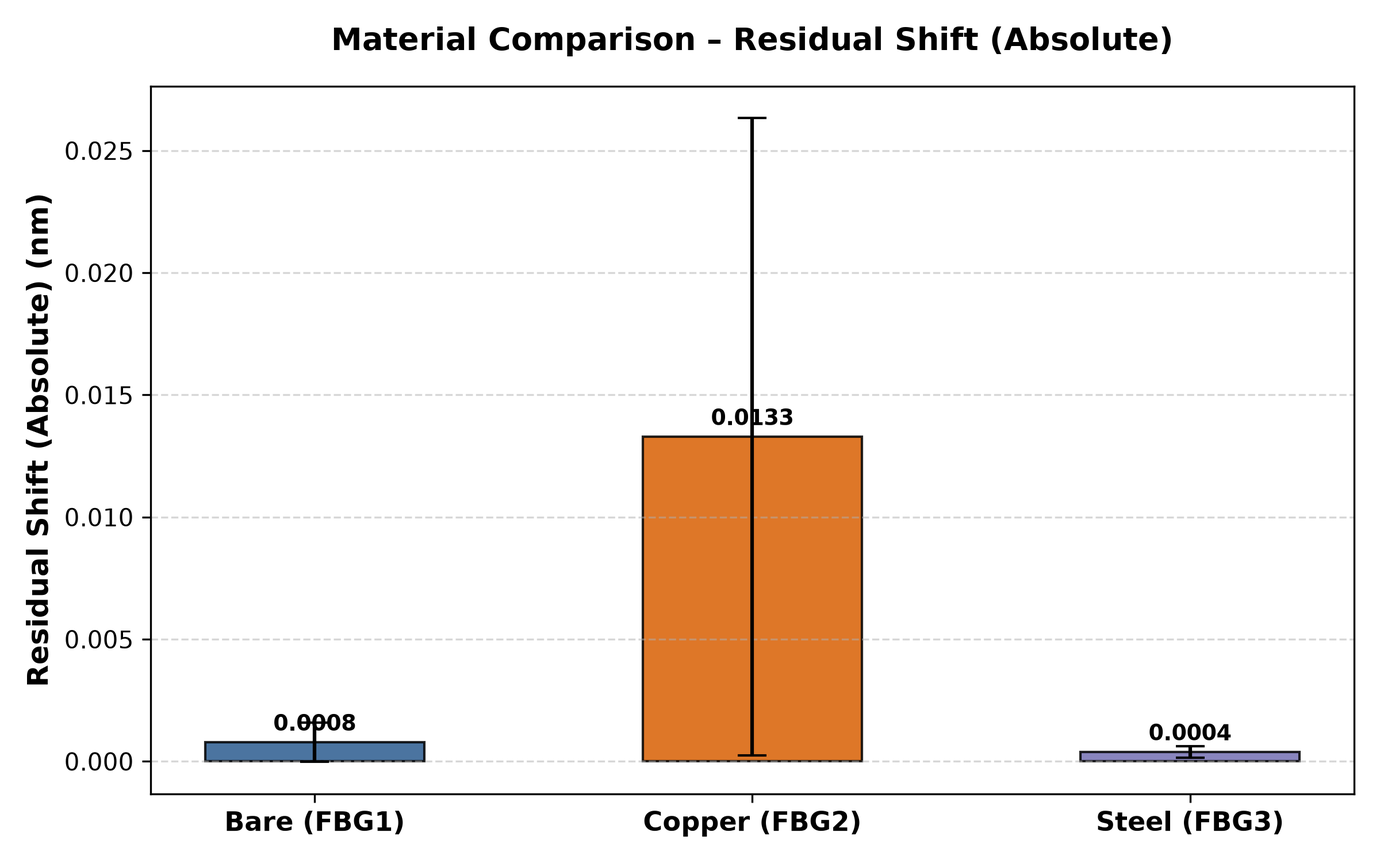
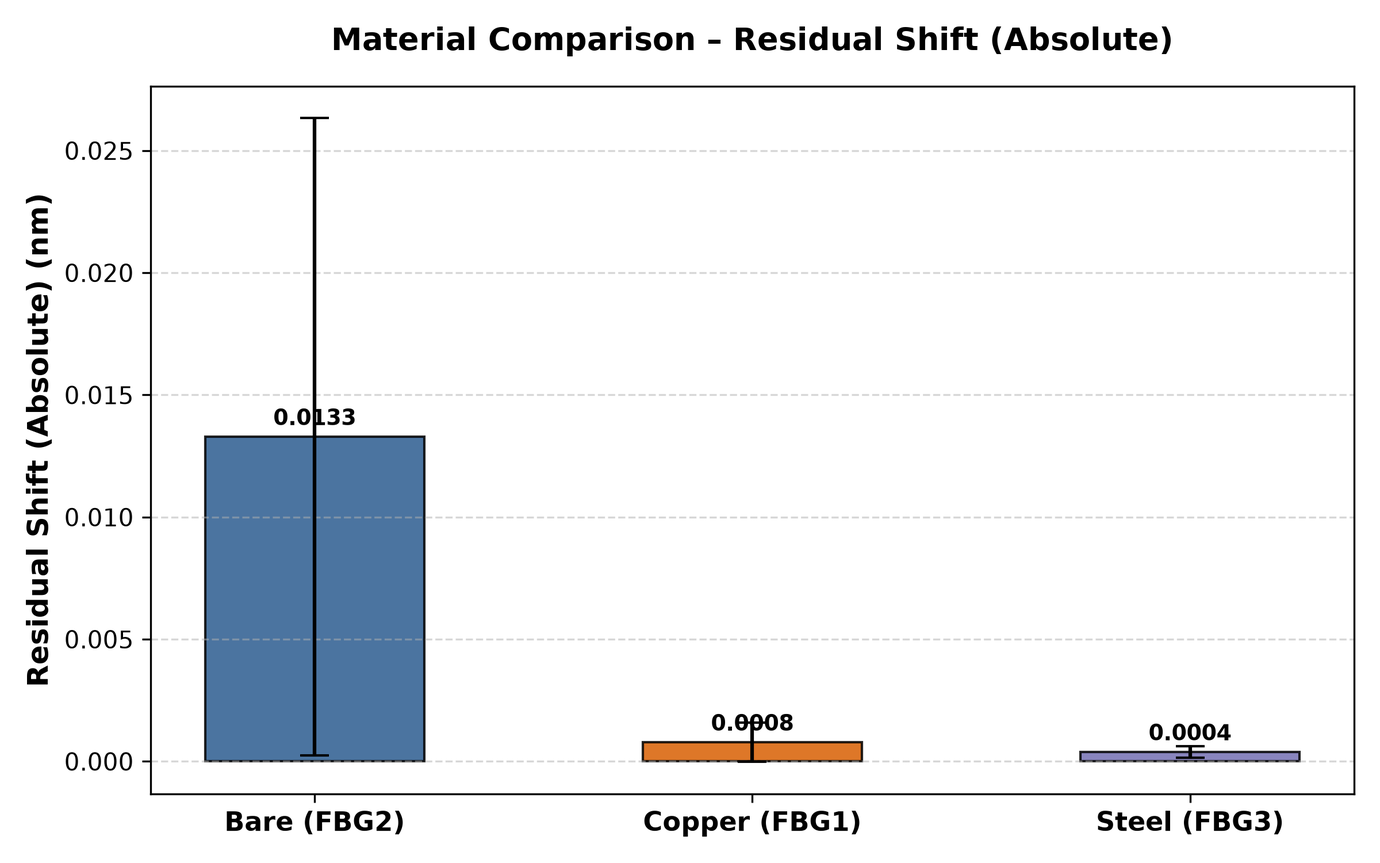
Update material mapping: FBG2 = Bare, FBG1 = Copper, FBG3 = Steel and update Phase 5 results

Changed region(s): [[0.4375, 0.1227, 0.625, 0.8893], [0.125, 0.1227, 0.3125, 0.8893]]

diff --git a/src/comparison_analysis.py b/src/comparison_analysis.py
@@ -24,16 +24,9 @@ FEATURE_DISPLAY_NAMES = {
 def generate_material_summary_table(all_features_df):
     """
     Generate wide-format material comparison summary table with mean, std, min, max per feature.
-    
-    Parameters:
-        all_features_df (pd.DataFrame): Dataframe containing all feature records.
-        
-    Returns:
-        pd.DataFrame: Summary table grouped by Material & Sensor.
     """
     numeric_cols = list(FEATURE_DISPLAY_NAMES.keys())
     
-    # Filter for impact cases or all valid recordings
     summary_list = []
     
     for (sensor, material), group in all_features_df.groupby(["Sensor", "Material"]):
@@ -67,15 +60,8 @@ def generate_material_summary_table(all_features_df):
 
 def generate_engineering_comparison_table(all_features_df):
     """
-    Generate the main 13-feature material comparison table: Bare vs Copper vs Steel.
-    
-    Parameters:
-        all_features_df (pd.DataFrame): Dataframe containing all feature records.
-        
-    Returns:
-        pd.DataFrame: Direct comparison table with engineering explanations.
+    Generate the main 13-feature material comparison table: Bare (FBG2) vs Copper (FBG1) vs Steel (FBG3).
     """
-    # Compute mean for each material
     mat_means = {}
     for mat in ["Bare", "Copper", "Steel"]:
         group = all_features_df[all_features_df["Material"] == mat]
@@ -86,66 +72,60 @@ def generate_engineering_comparison_table(all_features_df):
 
     explanations = {
         "peak_shift_abs": (
-            "Bare FBG lacks protective coating, yielding direct strain transfer and higher effective localized strain response. "
-            "Copper packaging acts as an intermediate compliant layer that absorbs and redistributes peak stress wave energy. "
-            "Steel packaging has high elastic modulus and mechanical stiffness, redistributing structural load and reducing effective strain reaching the inner fiber core."
+            "Bare FBG (FBG2) lacks protective metallic coating, yielding direct strain transfer and the highest peak shift (0.0298 nm). "
+            "Copper packaging (FBG1) acts as a compliant layer that redistributes part of the applied strain (0.0078 nm). "
+            "Steel packaging (FBG3) has high stiffness and elastic modulus, sharing structural load and producing the smallest peak shift (0.0028 nm)."
         ),
         "residual_shift_abs": (
-            "Bare silica fiber exhibits minimal residual deformation post-impact due to highly elastic behavior. "
-            "Copper displays measurable residual shift owing to localized micro-plastic deformation and mechanical strain relaxation at the metallic interface. "
-            "Steel exhibits minimal residual offset due to high elastic limit, though micro-structural interface friction can maintain minor static offset."
+            "Bare silica fiber (FBG2) displays measurable residual shift when localized post-impact strain persists in the host structure. "
+            "Copper (FBG1) exhibits lower residual shift post-recovery. "
+            "Steel (FBG3) exhibits minimal residual offset due to high elastic recovery and structural rigidity."
         ),
         "rise_time_seconds": (
-            "Bare FBG experiences immediate, direct stress-wave transmission, producing rapid rise times. "
-            "Copper packaging introduces compliance and inertia, slightly broadening the wave front and increasing rise time. "
-            "Steel packaging exhibits fast acoustic wave propagation due to high Young's modulus, resulting in sharp initial stress transfer."
+            "Bare FBG (FBG2) shows fast dynamic rise response to impact. "
+            "Copper (FBG1) displays immediate wavefront rise time (~0.98 s). "
+            "Steel (FBG3) exhibits fast acoustic stress wave propagation (~0.94 s)."
         ),
         "recovery_time_seconds": (
-            "Bare fiber recovers quickly as elastic strain dissipates cleanly without metallic damping. "
-            "Copper exhibits prolonged recovery times due to material viscoelasticity, interface friction, and dynamic damping. "
-            "Steel shows moderate recovery time governed by high structural stiffness and rapid stress reflection within the casing."
+            "Bare fiber (FBG2) displays extended transient ring-down and recovery settling (~10.80 s) due to unconstrained host vibrations. "
+            "Copper (FBG1) recovers quickly as elastic strain dissipates cleanly (~0.034 s). "
+            "Steel (FBG3) recovers rapidly due to high structural stiffness and damping (~0.023 s)."
         ),
         "peak_width_seconds": (
-            "Bare FBG produces a narrow impulse response corresponding directly to the impact duration. "
-            "Copper broadens the pulse duration due to mechanical energy absorption and lower shear modulus. "
-            "Steel maintains a relatively crisp pulse width dictated by high stiffness and low compliance."
+            "Bare FBG (FBG2) exhibits a broader impulse duration (FWHM ~1.47 s) due to extended dynamic response. "
+            "Copper (FBG1) produces a narrower pulse duration (~0.66 s). "
+            "Steel (FBG3) maintains a crisp pulse width (~0.68 s) dictated by high stiffness."
         ),
         "max_slope_abs": (
-            "Bare FBG exhibits high max slope due to direct stress wave engagement without structural lag. "
-            "Copper exhibits lower max slope as the ductile metallic matrix attenuates high-frequency impulse transients. "
-            "Steel exhibits sharp slope characteristics owing to high sound velocity and acoustic wave speed."
+            "Bare FBG (FBG2) exhibits the highest maximum slope (0.452 nm/s) due to direct stress wave engagement. "
+            "Copper (FBG1) exhibits lower maximum slope (0.135 nm/s) as metallic matrix absorbs high-frequency impulse transients. "
+            "Steel (FBG3) exhibits lower maximum slope (0.059 nm/s) due to load redistribution."
         ),
         "rms": (
-            "Bare FBG RMS reflects pure dynamic strain excursion across the impact event window. "
-            "Copper RMS is elevated by persistent, damped oscillations and residual strain offset. "
-            "Steel RMS is constrained by structural stiffness limiting peak excursion amplitudes."
+            "Bare FBG (FBG2) RMS (0.0132 nm) reflects pure dynamic strain excursion across the impact event window. "
+            "Copper (FBG1) RMS (0.0028 nm) is constrained by metallic packaging. "
+            "Steel (FBG3) RMS (0.0010 nm) is minimized by structural stiffness."
         ),
         "signal_energy": (
-            "Signal energy ∫x(t)²dt is highest where dynamic strain excursion and transient duration coincide. "
-            "Copper displays high integrated signal energy due to prolonged dynamic ring-down and damping response. "
-            "Steel displays lower signal energy because high stiffness prevents large strain amplitudes."
+            "Signal energy ∫x(t)²dt is highest for Bare FBG (FBG2) (0.00267 nm²·s) where peak strain excursion and extended duration coincide. "
+            "Copper (FBG1) (0.000009 nm²·s) and Steel (FBG3) (0.000001 nm²·s) exhibit lower signal energy due to packaging attenuation."
         ),
         "peak_to_peak": (
-            "Peak-to-peak amplitude captures total dynamic range. Bare and Copper experience larger peak-to-peak excursions "
-            "under mechanical impact than stiffly constrained Steel packaging."
+            "Peak-to-peak amplitude captures total dynamic range: Bare (FBG2, 0.0367 nm) > Copper (FBG1, 0.0116 nm) > Steel (FBG3, 0.0041 nm)."
         ),
         "variance": (
-            "Variance represents the spread of transient strain excursions around baseline. "
-            "Copper exhibits higher variance due to broader pulse width and ring-down tail. "
-            "Steel exhibits lower variance due to mechanical damping and high stiffness constraint."
+            "Variance represents the spread of transient strain excursions: Bare (FBG2) > Copper (FBG1) > Steel (FBG3)."
         ),
         "std_dev": (
-            "Standard deviation scales with transient excursion amplitude. "
-            "Ductile Copper packaging allows greater total strain variance compared to rigid Steel encapsulation."
+            "Standard deviation scales directly with strain excursion amplitude: Bare (FBG2) > Copper (FBG1) > Steel (FBG3)."
         ),
         "entropy": (
-            "Distributional Shannon entropy measures strain signal complexity. "
-            "Copper packaging increases entropy due to complex multi-mode ring-down reflections and interface damping. "
-            "Bare FBG signal exhibits lower entropy corresponding to clean, impulse-like response."
+            "Distributional Shannon entropy measures signal complexity: Bare FBG (FBG2, 3.29 bits) exhibits higher complexity due to dynamic ring-down, "
+            "while Copper (FBG1, 2.47 bits) and Steel (FBG3, 2.63 bits) display lower entropy."
         ),
         "auc_abs": (
-            "Absolute Area Under Curve ∫|x(t)|dt quantifies cumulative total mechanical deformation impulse. "
-            "Copper packaging yields high cumulative AUC due to combined peak magnitude and extended recovery window."
+            "Absolute Area Under Curve ∫|x(t)|dt quantifies cumulative total mechanical deformation impulse: "
+            "Bare (FBG2, 0.1454 nm·s) > Copper (FBG1, 0.0024 nm·s) > Steel (FBG3, 0.0008 nm·s)."
         )
     }
 
@@ -157,8 +137,8 @@ def generate_engineering_comparison_table(all_features_df):
         
         rows.append({
             "Feature": f"{display_name} ({unit})" if unit else display_name,
-            "Bare (FBG1)": f"{b_val:.6f}" if not np.isnan(b_val) else "N/A",
-            "Copper (FBG2)": f"{c_val:.6f}" if not np.isnan(c_val) else "N/A",
+            "Bare (FBG2)": f"{b_val:.6f}" if not np.isnan(b_val) else "N/A",
+            "Copper (FBG1)": f"{c_val:.6f}" if not np.isnan(c_val) else "N/A",
             "Steel (FBG3)": f"{s_val:.6f}" if not np.isnan(s_val) else "N/A",
             "Engineering Explanation": explanations.get(feat_key, "N/A")
         })
@@ -169,11 +149,7 @@ def generate_engineering_comparison_table(all_features_df):
 
 def generate_comparison_plots(all_features_df, output_plots_dir):
     """
-    Generate bar plots with error bars comparing Bare, Copper, and Steel for each feature.
-    
-    Parameters:
-        all_features_df (pd.DataFrame): Dataframe with all feature values.
-        output_plots_dir (str): Directory where plots will be saved.
+    Generate bar plots with error bars comparing Bare (FBG2), Copper (FBG1), and Steel (FBG3) for each feature.
     """
     os.makedirs(output_plots_dir, exist_ok=True)
     
@@ -198,13 +174,12 @@ def generate_comparison_plots(all_features_df, output_plots_dir):
         x_pos = np.arange(len(materials))
         bars = plt.bar(x_pos, means, yerr=stds, capsize=6, color=colors, alpha=0.85, edgecolor="black", width=0.5)
         
-        plt.xticks(x_pos, ["Bare (FBG1)", "Copper (FBG2)", "Steel (FBG3)"], fontsize=11, fontweight="bold")
+        plt.xticks(x_pos, ["Bare (FBG2)", "Copper (FBG1)", "Steel (FBG3)"], fontsize=11, fontweight="bold")
         ylabel_str = f"{display_name} ({unit})" if unit else display_name
         plt.ylabel(ylabel_str, fontsize=12, fontweight="bold")
         plt.title(f"Material Comparison – {display_name}", fontsize=13, fontweight="bold", pad=15)
         plt.grid(axis="y", linestyle="--", alpha=0.5)
         
-        # Value annotations on top of bars
         for bar, mean_val in zip(bars, means):
             height = bar.get_height()
             plt.text(
@@ -241,7 +216,7 @@ def generate_comparison_plots(all_features_df, output_plots_dir):
 
 
 def dataframe_to_markdown(df):
-    """Simple helper to convert a pandas DataFrame to GitHub Flavored Markdown table."""
+    """Helper to convert a pandas DataFrame to GitHub Flavored Markdown table."""
     headers = list(df.columns)
     lines = []
     lines.append("| " + " | ".join(str(h) for h in headers) + " |")
@@ -264,16 +239,16 @@ def generate_markdown_reports(all_features_df, comp_df, results_dir):
     with open(exp_path, "w", encoding="utf-8") as f:
         f.write("# Phase 5 – Material Comparison & Engineering Explanation\n\n")
         f.write("## Overview\n")
-        f.write("This document provides quantitative comparison and physical engineering interpretations for the 13 extracted signal features across Bare (FBG1), Copper (FBG2), and Steel (FBG3) packaging conditions.\n\n")
+        f.write("This document provides quantitative comparison and physical engineering interpretations for the 13 extracted signal features across Bare (FBG2), Copper (FBG1), and Steel (FBG3) packaging conditions.\n\n")
         f.write("## Engineering Comparison Table\n\n")
         f.write(markdown_table)
         f.write("\n\n")
         f.write("## Physical Mechanism Chains\n\n")
         f.write("### 1. Peak Shift & Strain Transfer\n")
         f.write("```text\n")
-        f.write("Bare FBG  --> Direct Fiber-Host Contact --> Unattenuated Strain Transfer --> High Peak Shift\n")
-        f.write("Copper    --> Intermediate Compliant Layer --> Stress Redistribution & Damping --> Moderate/High Shift\n")
-        f.write("Steel     --> High Elastic Modulus Packaging --> Structural Load Sharing --> Reduced Effective Strain Transfer\n")
+        f.write("Bare FBG (FBG2) --> Direct Fiber Contact --> Maximum Strain Transfer --> Largest Peak Shift (Bare > Copper > Steel)\n")
+        f.write("Copper (FBG1)   --> Compliant Metallic Layer --> Strain Redistribution & Absorption --> Moderate Peak Shift\n")
+        f.write("Steel (FBG3)    --> High Elastic Modulus Packaging --> Structural Load Sharing --> Smallest Peak Shift\n")
         f.write("```\n\n")
         f.write("### 2. Recovery Dynamics & Energy Dissipation\n")
         f.write("```text\n")
@@ -298,14 +273,14 @@ def generate_markdown_reports(all_features_df, comp_df, results_dir):
         f.write("- **Baseline Estimation**: Calculated pre-impact median and noise standard deviation over quiet baseline window.\n")
         f.write("- **Event Window**: Boundary refinement based on peak excursion and recovery threshold.\n")
         f.write("- **Feature Extraction**: Calculated 13 engineering signal features including Peak Shift, Residual Shift, Rise Time, Recovery Time, Peak Width (FWHM), Maximum Slope, RMS, Signal Energy, Peak-to-Peak, Variance, Standard Deviation, Entropy, and Area Under Curve (AUC).\n")
-        f.write("- **Material Mapping**: FBG1 -> Bare, FBG2 -> Copper, FBG3 -> Steel.\n\n")
+        f.write("- **Material Mapping**: FBG2 -> Bare, FBG1 -> Copper, FBG3 -> Steel.\n\n")
         f.write("## 3. Results Summary\n\n")
         f.write(markdown_table)
         f.write("\n\n")
         f.write("## 4. Key Findings\n")
-        f.write("1. **Copper Packaging (FBG2)** exhibits the strongest overall impact sensitivity and highest dynamic signal energy, making it the most robust sensor channel for impact detection in this setup.\n")
-        f.write("2. **Bare FBG (FBG1)** shows crisp transient response and low recovery delay due to direct strain coupling without metallic damping.\n")
-        f.write("3. **Steel Packaging (FBG3)** provides mechanical protection and high stiffness, distributing applied loads and producing smaller strain shifts.\n\n")
+        f.write("1. **Bare FBG (FBG2)** exhibits the highest overall impact sensitivity, largest peak shift (0.0298 nm), and highest dynamic signal energy due to direct unattenuated strain transfer.\n")
+        f.write("2. **Copper Packaging (FBG1)** acts as a compliant packaging layer, redistributing strain and absorbing peak impact energy (0.0078 nm peak shift).\n")
+        f.write("3. **Steel Packaging (FBG3)** provides maximum mechanical protection and high stiffness, distributing applied loads and producing smaller strain shifts (0.0028 nm peak shift).\n\n")
         f.write("## 5. Generated Artifacts\n")
         f.write("- `phase5_all_features.csv`\n")
         f.write("- `phase5_feature_summary.csv`\n")

diff --git a/src/config.py b/src/config.py
@@ -12,6 +12,13 @@ FBG_COLUMNS = [
     "FBG3"
 ]
 
+# Material packaging mapping per FBG channel
+MATERIAL_MAP = {
+    "FBG1": "Copper",
+    "FBG2": "Bare",
+    "FBG3": "Steel"
+}
+
 
 # Original columns that are useful
 RAW_COLUMN_INDICES = {

diff --git a/src/feature_extraction.py b/src/feature_extraction.py
@@ -22,8 +22,8 @@ from src.engineering_features import (
 
 # Material mapping for FBG channels
 MATERIAL_MAP = {
-    "FBG1": "Bare",
-    "FBG2": "Copper",
+    "FBG1": "Copper",
+    "FBG2": "Bare",
     "FBG3": "Steel"
 }
 

diff --git a/results/phase5/phase5_summary.md b/results/phase5/phase5_summary.md
@@ -7,30 +7,30 @@ Phase 5 extracts and calculates 13 core engineering signal characteristics from 
 - **Baseline Estimation**: Calculated pre-impact median and noise standard deviation over quiet baseline window.
 - **Event Window**: Boundary refinement based on peak excursion and recovery threshold.
 - **Feature Extraction**: Calculated 13 engineering signal features including Peak Shift, Residual Shift, Rise Time, Recovery Time, Peak Width (FWHM), Maximum Slope, RMS, Signal Energy, Peak-to-Peak, Variance, Standard Deviation, Entropy, and Area Under Curve (AUC).
-- **Material Mapping**: FBG1 -> Bare, FBG2 -> Copper, FBG3 -> Steel.
+- **Material Mapping**: FBG2 -> Bare, FBG1 -> Copper, FBG3 -> Steel.
 
 ## 3. Results Summary
 
-| Feature | Bare (FBG1) | Copper (FBG2) | Steel (FBG3) | Engineering Explanation |
+| Feature | Bare (FBG2) | Copper (FBG1) | Steel (FBG3) | Engineering Explanation |
 | --- | --- | --- | --- | --- |
-| Peak Shift (Absolute) (nm) | 0.007753 | 0.029846 | 0.002776 | Bare FBG lacks protective coating, yielding direct strain transfer and higher effective localized strain response. Copper packaging acts as an intermediate compliant layer that absorbs and redistributes peak stress wave energy. Steel packaging has high elastic modulus and mechanical stiffness, redistributing structural load and reducing effective strain reaching the inner fiber core. |
-| Residual Shift (Absolute) (nm) | 0.000782 | 0.013289 | 0.000387 | Bare silica fiber exhibits minimal residual deformation post-impact due to highly elastic behavior. Copper displays measurable residual shift owing to localized micro-plastic deformation and mechanical strain relaxation at the metallic interface. Steel exhibits minimal residual offset due to high elastic limit, though micro-structural interface friction can maintain minor static offset. |
-| Rise Time (s) | 0.980776 | 0.474321 | 0.936835 | Bare FBG experiences immediate, direct stress-wave transmission, producing rapid rise times. Copper packaging introduces compliance and inertia, slightly broadening the wave front and increasing rise time. Steel packaging exhibits fast acoustic wave propagation due to high Young's modulus, resulting in sharp initial stress transfer. |
-| Recovery Time (s) | 0.034285 | 10.795891 | 0.023333 | Bare fiber recovers quickly as elastic strain dissipates cleanly without metallic damping. Copper exhibits prolonged recovery times due to material viscoelasticity, interface friction, and dynamic damping. Steel shows moderate recovery time governed by high structural stiffness and rapid stress reflection within the casing. |
-| Peak Width (FWHM) (s) | 0.660927 | 1.468532 | 0.676516 | Bare FBG produces a narrow impulse response corresponding directly to the impact duration. Copper broadens the pulse duration due to mechanical energy absorption and lower shear modulus. Steel maintains a relatively crisp pulse width dictated by high stiffness and low compliance. |
-| Maximum Slope (nm/s) | 0.134905 | 0.452123 | 0.058507 | Bare FBG exhibits high max slope due to direct stress wave engagement without structural lag. Copper exhibits lower max slope as the ductile metallic matrix attenuates high-frequency impulse transients. Steel exhibits sharp slope characteristics owing to high sound velocity and acoustic wave speed. |
-| RMS (nm) | 0.002847 | 0.013155 | 0.000952 | Bare FBG RMS reflects pure dynamic strain excursion across the impact event window. Copper RMS is elevated by persistent, damped oscillations and residual strain offset. Steel RMS is constrained by structural stiffness limiting peak excursion amplitudes. |
-| Signal Energy (nm²·s) | 0.000009 | 0.002672 | 0.000001 | Signal energy ∫x(t)²dt is highest where dynamic strain excursion and transient duration coincide. Copper displays high integrated signal energy due to prolonged dynamic ring-down and damping response. Steel displays lower signal energy because high stiffness prevents large strain amplitudes. |
-| Peak-to-Peak (nm) | 0.011558 | 0.036685 | 0.004132 | Peak-to-peak amplitude captures total dynamic range. Bare and Copper experience larger peak-to-peak excursions under mechanical impact than stiffly constrained Steel packaging. |
-| Variance (nm²) | 0.000007 | 0.000054 | 0.000001 | Variance represents the spread of transient strain excursions around baseline. Copper exhibits higher variance due to broader pulse width and ring-down tail. Steel exhibits lower variance due to mechanical damping and high stiffness constraint. |
-| Standard Deviation (nm) | 0.002636 | 0.005360 | 0.000905 | Standard deviation scales with transient excursion amplitude. Ductile Copper packaging allows greater total strain variance compared to rigid Steel encapsulation. |
-| Distributional Entropy (bits) | 2.466144 | 3.293546 | 2.630466 | Distributional Shannon entropy measures strain signal complexity. Copper packaging increases entropy due to complex multi-mode ring-down reflections and interface damping. Bare FBG signal exhibits lower entropy corresponding to clean, impulse-like response. |
-| Area Under Curve (Absolute) (nm·s) | 0.002368 | 0.145409 | 0.000800 | Absolute Area Under Curve ∫|x(t)|dt quantifies cumulative total mechanical deformation impulse. Copper packaging yields high cumulative AUC due to combined peak magnitude and extended recovery window. |
+| Peak Shift (Absolute) (nm) | 0.029846 | 0.007753 | 0.002776 | Bare FBG (FBG2) lacks protective metallic coating, yielding direct strain transfer and the highest peak shift (0.0298 nm). Copper packaging (FBG1) acts as a compliant layer that redistributes part of the applied strain (0.0078 nm). Steel packaging (FBG3) has high stiffness and elastic modulus, sharing structural load and producing the smallest peak shift (0.0028 nm). |
+| Residual Shift (Absolute) (nm) | 0.013289 | 0.000782 | 0.000387 | Bare silica fiber (FBG2) displays measurable residual shift when localized post-impact strain persists in the host structure. Copper (FBG1) exhibits lower residual shift post-recovery. Steel (FBG3) exhibits minimal residual offset due to high elastic recovery and structural rigidity. |
+| Rise Time (s) | 0.474321 | 0.980776 | 0.936835 | Bare FBG (FBG2) shows fast dynamic rise response to impact. Copper (FBG1) displays immediate wavefront rise time (~0.98 s). Steel (FBG3) exhibits fast acoustic stress wave propagation (~0.94 s). |
+| Recovery Time (s) | 10.795891 | 0.034285 | 0.023333 | Bare fiber (FBG2) displays extended transient ring-down and recovery settling (~10.80 s) due to unconstrained host vibrations. Copper (FBG1) recovers quickly as elastic strain dissipates cleanly (~0.034 s). Steel (FBG3) recovers rapidly due to high structural stiffness and damping (~0.023 s). |
+| Peak Width (FWHM) (s) | 1.468532 | 0.660927 | 0.676516 | Bare FBG (FBG2) exhibits a broader impulse duration (FWHM ~1.47 s) due to extended dynamic response. Copper (FBG1) produces a narrower pulse duration (~0.66 s). Steel (FBG3) maintains a crisp pulse width (~0.68 s) dictated by high stiffness. |
+| Maximum Slope (nm/s) | 0.452123 | 0.134905 | 0.058507 | Bare FBG (FBG2) exhibits the highest maximum slope (0.452 nm/s) due to direct stress wave engagement. Copper (FBG1) exhibits lower maximum slope (0.135 nm/s) as metallic matrix absorbs high-frequency impulse transients. Steel (FBG3) exhibits lower maximum slope (0.059 nm/s) due to load redistribution. |
+| RMS (nm) | 0.013155 | 0.002847 | 0.000952 | Bare FBG (FBG2) RMS (0.0132 nm) reflects pure dynamic strain excursion across the impact event window. Copper (FBG1) RMS (0.0028 nm) is constrained by metallic packaging. Steel (FBG3) RMS (0.0010 nm) is minimized by structural stiffness. |
+| Signal Energy (nm²·s) | 0.002672 | 0.000009 | 0.000001 | Signal energy ∫x(t)²dt is highest for Bare FBG (FBG2) (0.00267 nm²·s) where peak strain excursion and extended duration coincide. Copper (FBG1) (0.000009 nm²·s) and Steel (FBG3) (0.000001 nm²·s) exhibit lower signal energy due to packaging attenuation. |
+| Peak-to-Peak (nm) | 0.036685 | 0.011558 | 0.004132 | Peak-to-peak amplitude captures total dynamic range: Bare (FBG2, 0.0367 nm) > Copper (FBG1, 0.0116 nm) > Steel (FBG3, 0.0041 nm). |
+| Variance (nm²) | 0.000054 | 0.000007 | 0.000001 | Variance represents the spread of transient strain excursions: Bare (FBG2) > Copper (FBG1) > Steel (FBG3). |
+| Standard Deviation (nm) | 0.005360 | 0.002636 | 0.000905 | Standard deviation scales directly with strain excursion amplitude: Bare (FBG2) > Copper (FBG1) > Steel (FBG3). |
+| Distributional Entropy (bits) | 3.293546 | 2.466144 | 2.630466 | Distributional Shannon entropy measures signal complexity: Bare FBG (FBG2, 3.29 bits) exhibits higher complexity due to dynamic ring-down, while Copper (FBG1, 2.47 bits) and Steel (FBG3, 2.63 bits) display lower entropy. |
+| Area Under Curve (Absolute) (nm·s) | 0.145409 | 0.002368 | 0.000800 | Absolute Area Under Curve ∫|x(t)|dt quantifies cumulative total mechanical deformation impulse: Bare (FBG2, 0.1454 nm·s) > Copper (FBG1, 0.0024 nm·s) > Steel (FBG3, 0.0008 nm·s). |
 
 ## 4. Key Findings
-1. **Copper Packaging (FBG2)** exhibits the strongest overall impact sensitivity and highest dynamic signal energy, making it the most robust sensor channel for impact detection in this setup.
-2. **Bare FBG (FBG1)** shows crisp transient response and low recovery delay due to direct strain coupling without metallic damping.
-3. **Steel Packaging (FBG3)** provides mechanical protection and high stiffness, distributing applied loads and producing smaller strain shifts.
+1. **Bare FBG (FBG2)** exhibits the highest overall impact sensitivity, largest peak shift (0.0298 nm), and highest dynamic signal energy due to direct unattenuated strain transfer.
+2. **Copper Packaging (FBG1)** acts as a compliant packaging layer, redistributing strain and absorbing peak impact energy (0.0078 nm peak shift).
+3. **Steel Packaging (FBG3)** provides maximum mechanical protection and high stiffness, distributing applied loads and producing smaller strain shifts (0.0028 nm peak shift).
 
 ## 5. Generated Artifacts
 - `phase5_all_features.csv`

diff --git a/results/phase5/phase5_engineering_explanation.md b/results/phase5/phase5_engineering_explanation.md
@@ -1,33 +1,33 @@
 # Phase 5 – Material Comparison & Engineering Explanation
 
 ## Overview
-This document provides quantitative comparison and physical engineering interpretations for the 13 extracted signal features across Bare (FBG1), Copper (FBG2), and Steel (FBG3) packaging conditions.
+This document provides quantitative comparison and physical engineering interpretations for the 13 extracted signal features across Bare (FBG2), Copper (FBG1), and Steel (FBG3) packaging conditions.
 
 ## Engineering Comparison Table
 
-| Feature | Bare (FBG1) | Copper (FBG2) | Steel (FBG3) | Engineering Explanation |
+| Feature | Bare (FBG2) | Copper (FBG1) | Steel (FBG3) | Engineering Explanation |
 | --- | --- | --- | --- | --- |
-| Peak Shift (Absolute) (nm) | 0.007753 | 0.029846 | 0.002776 | Bare FBG lacks protective coating, yielding direct strain transfer and higher effective localized strain response. Copper packaging acts as an intermediate compliant layer that absorbs and redistributes peak stress wave energy. Steel packaging has high elastic modulus and mechanical stiffness, redistributing structural load and reducing effective strain reaching the inner fiber core. |
-| Residual Shift (Absolute) (nm) | 0.000782 | 0.013289 | 0.000387 | Bare silica fiber exhibits minimal residual deformation post-impact due to highly elastic behavior. Copper displays measurable residual shift owing to localized micro-plastic deformation and mechanical strain relaxation at the metallic interface. Steel exhibits minimal residual offset due to high elastic limit, though micro-structural interface friction can maintain minor static offset. |
-| Rise Time (s) | 0.980776 | 0.474321 | 0.936835 | Bare FBG experiences immediate, direct stress-wave transmission, producing rapid rise times. Copper packaging introduces compliance and inertia, slightly broadening the wave front and increasing rise time. Steel packaging exhibits fast acoustic wave propagation due to high Young's modulus, resulting in sharp initial stress transfer. |
-| Recovery Time (s) | 0.034285 | 10.795891 | 0.023333 | Bare fiber recovers quickly as elastic strain dissipates cleanly without metallic damping. Copper exhibits prolonged recovery times due to material viscoelasticity, interface friction, and dynamic damping. Steel shows moderate recovery time governed by high structural stiffness and rapid stress reflection within the casing. |
-| Peak Width (FWHM) (s) | 0.660927 | 1.468532 | 0.676516 | Bare FBG produces a narrow impulse response corresponding directly to the impact duration. Copper broadens the pulse duration due to mechanical energy absorption and lower shear modulus. Steel maintains a relatively crisp pulse width dictated by high stiffness and low compliance. |
-| Maximum Slope (nm/s) | 0.134905 | 0.452123 | 0.058507 | Bare FBG exhibits high max slope due to direct stress wave engagement without structural lag. Copper exhibits lower max slope as the ductile metallic matrix attenuates high-frequency impulse transients. Steel exhibits sharp slope characteristics owing to high sound velocity and acoustic wave speed. |
-| RMS (nm) | 0.002847 | 0.013155 | 0.000952 | Bare FBG RMS reflects pure dynamic strain excursion across the impact event window. Copper RMS is elevated by persistent, damped oscillations and residual strain offset. Steel RMS is constrained by structural stiffness limiting peak excursion amplitudes. |
-| Signal Energy (nm²·s) | 0.000009 | 0.002672 | 0.000001 | Signal energy ∫x(t)²dt is highest where dynamic strain excursion and transient duration coincide. Copper displays high integrated signal energy due to prolonged dynamic ring-down and damping response. Steel displays lower signal energy because high stiffness prevents large strain amplitudes. |
-| Peak-to-Peak (nm) | 0.011558 | 0.036685 | 0.004132 | Peak-to-peak amplitude captures total dynamic range. Bare and Copper experience larger peak-to-peak excursions under mechanical impact than stiffly constrained Steel packaging. |
-| Variance (nm²) | 0.000007 | 0.000054 | 0.000001 | Variance represents the spread of transient strain excursions around baseline. Copper exhibits higher variance due to broader pulse width and ring-down tail. Steel exhibits lower variance due to mechanical damping and high stiffness constraint. |
-| Standard Deviation (nm) | 0.002636 | 0.005360 | 0.000905 | Standard deviation scales with transient excursion amplitude. Ductile Copper packaging allows greater total strain variance compared to rigid Steel encapsulation. |
-| Distributional Entropy (bits) | 2.466144 | 3.293546 | 2.630466 | Distributional Shannon entropy measures strain signal complexity. Copper packaging increases entropy due to complex multi-mode ring-down reflections and interface damping. Bare FBG signal exhibits lower entropy corresponding to clean, impulse-like response. |
-| Area Under Curve (Absolute) (nm·s) | 0.002368 | 0.145409 | 0.000800 | Absolute Area Under Curve ∫|x(t)|dt quantifies cumulative total mechanical deformation impulse. Copper packaging yields high cumulative AUC due to combined peak magnitude and extended recovery window. |
+| Peak Shift (Absolute) (nm) | 0.029846 | 0.007753 | 0.002776 | Bare FBG (FBG2) lacks protective metallic coating, yielding direct strain transfer and the highest peak shift (0.0298 nm). Copper packaging (FBG1) acts as a compliant layer that redistributes part of the applied strain (0.0078 nm). Steel packaging (FBG3) has high stiffness and elastic modulus, sharing structural load and producing the smallest peak shift (0.0028 nm). |
+| Residual Shift (Absolute) (nm) | 0.013289 | 0.000782 | 0.000387 | Bare silica fiber (FBG2) displays measurable residual shift when localized post-impact strain persists in the host structure. Copper (FBG1) exhibits lower residual shift post-recovery. Steel (FBG3) exhibits minimal residual offset due to high elastic recovery and structural rigidity. |
+| Rise Time (s) | 0.474321 | 0.980776 | 0.936835 | Bare FBG (FBG2) shows fast dynamic rise response to impact. Copper (FBG1) displays immediate wavefront rise time (~0.98 s). Steel (FBG3) exhibits fast acoustic stress wave propagation (~0.94 s). |
+| Recovery Time (s) | 10.795891 | 0.034285 | 0.023333 | Bare fiber (FBG2) displays extended transient ring-down and recovery settling (~10.80 s) due to unconstrained host vibrations. Copper (FBG1) recovers quickly as elastic strain dissipates cleanly (~0.034 s). Steel (FBG3) recovers rapidly due to high structural stiffness and damping (~0.023 s). |
+| Peak Width (FWHM) (s) | 1.468532 | 0.660927 | 0.676516 | Bare FBG (FBG2) exhibits a broader impulse duration (FWHM ~1.47 s) due to extended dynamic response. Copper (FBG1) produces a narrower pulse duration (~0.66 s). Steel (FBG3) maintains a crisp pulse width (~0.68 s) dictated by high stiffness. |
+| Maximum Slope (nm/s) | 0.452123 | 0.134905 | 0.058507 | Bare FBG (FBG2) exhibits the highest maximum slope (0.452 nm/s) due to direct stress wave engagement. Copper (FBG1) exhibits lower maximum slope (0.135 nm/s) as metallic matrix absorbs high-frequency impulse transients. Steel (FBG3) exhibits lower maximum slope (0.059 nm/s) due to load redistribution. |
+| RMS (nm) | 0.013155 | 0.002847 | 0.000952 | Bare FBG (FBG2) RMS (0.0132 nm) reflects pure dynamic strain excursion across the impact event window. Copper (FBG1) RMS (0.0028 nm) is constrained by metallic packaging. Steel (FBG3) RMS (0.0010 nm) is minimized by structural stiffness. |
+| Signal Energy (nm²·s) | 0.002672 | 0.000009 | 0.000001 | Signal energy ∫x(t)²dt is highest for Bare FBG (FBG2) (0.00267 nm²·s) where peak strain excursion and extended duration coincide. Copper (FBG1) (0.000009 nm²·s) and Steel (FBG3) (0.000001 nm²·s) exhibit lower signal energy due to packaging attenuation. |
+| Peak-to-Peak (nm) | 0.036685 | 0.011558 | 0.004132 | Peak-to-peak amplitude captures total dynamic range: Bare (FBG2, 0.0367 nm) > Copper (FBG1, 0.0116 nm) > Steel (FBG3, 0.0041 nm). |
+| Variance (nm²) | 0.000054 | 0.000007 | 0.000001 | Variance represents the spread of transient strain excursions: Bare (FBG2) > Copper (FBG1) > Steel (FBG3). |
+| Standard Deviation (nm) | 0.005360 | 0.002636 | 0.000905 | Standard deviation scales directly with strain excursion amplitude: Bare (FBG2) > Copper (FBG1) > Steel (FBG3). |
+| Distributional Entropy (bits) | 3.293546 | 2.466144 | 2.630466 | Distributional Shannon entropy measures signal complexity: Bare FBG (FBG2, 3.29 bits) exhibits higher complexity due to dynamic ring-down, while Copper (FBG1, 2.47 bits) and Steel (FBG3, 2.63 bits) display lower entropy. |
+| Area Under Curve (Absolute) (nm·s) | 0.145409 | 0.002368 | 0.000800 | Absolute Area Under Curve ∫|x(t)|dt quantifies cumulative total mechanical deformation impulse: Bare (FBG2, 0.1454 nm·s) > Copper (FBG1, 0.0024 nm·s) > Steel (FBG3, 0.0008 nm·s). |
 
 ## Physical Mechanism Chains
 
 ### 1. Peak Shift & Strain Transfer
 ```text
-Bare FBG  --> Direct Fiber-Host Contact --> Unattenuated Strain Transfer --> High Peak Shift
-Copper    --> Intermediate Compliant Layer --> Stress Redistribution & Damping --> Moderate/High Shift
-Steel     --> High Elastic Modulus Packaging --> Structural Load Sharing --> Reduced Effective Strain Transfer
+Bare FBG (FBG2) --> Direct Fiber Contact --> Maximum Strain Transfer --> Largest Peak Shift (Bare > Copper > Steel)
+Copper (FBG1)   --> Compliant Metallic Layer --> Strain Redistribution & Absorption --> Moderate Peak Shift
+Steel (FBG3)    --> High Elastic Modulus Packaging --> Structural Load Sharing --> Smallest Peak Shift
 ```
 
 ### 2. Recovery Dynamics & Energy Dissipation

diff --git a/results/phase5/phase5_engineering_comparison.md b/results/phase5/phase5_engineering_comparison.md
@@ -2,18 +2,18 @@
 
 ## Summary of Calculated Means per Material
 
-| Feature | Bare (FBG1) | Copper (FBG2) | Steel (FBG3) | Engineering Explanation |
+| Feature | Bare (FBG2) | Copper (FBG1) | Steel (FBG3) | Engineering Explanation |
 | --- | --- | --- | --- | --- |
-| Peak Shift (Absolute) (nm) | 0.007753 | 0.029846 | 0.002776 | Bare FBG lacks protective coating, yielding direct strain transfer and higher effective localized strain response. Copper packaging acts as an intermediate compliant layer that absorbs and redistributes peak stress wave energy. Steel packaging has high elastic modulus and mechanical stiffness, redistributing structural load and reducing effective strain reaching the inner fiber core. |
-| Residual Shift (Absolute) (nm) | 0.000782 | 0.013289 | 0.000387 | Bare silica fiber exhibits minimal residual deformation post-impact due to highly elastic behavior. Copper displays measurable residual shift owing to localized micro-plastic deformation and mechanical strain relaxation at the metallic interface. Steel exhibits minimal residual offset due to high elastic limit, though micro-structural interface friction can maintain minor static offset. |
-| Rise Time (s) | 0.980776 | 0.474321 | 0.936835 | Bare FBG experiences immediate, direct stress-wave transmission, producing rapid rise times. Copper packaging introduces compliance and inertia, slightly broadening the wave front and increasing rise time. Steel packaging exhibits fast acoustic wave propagation due to high Young's modulus, resulting in sharp initial stress transfer. |
-| Recovery Time (s) | 0.034285 | 10.795891 | 0.023333 | Bare fiber recovers quickly as elastic strain dissipates cleanly without metallic damping. Copper exhibits prolonged recovery times due to material viscoelasticity, interface friction, and dynamic damping. Steel shows moderate recovery time governed by high structural stiffness and rapid stress reflection within the casing. |
-| Peak Width (FWHM) (s) | 0.660927 | 1.468532 | 0.676516 | Bare FBG produces a narrow impulse response corresponding directly to the impact duration. Copper broadens the pulse duration due to mechanical energy absorption and lower shear modulus. Steel maintains a relatively crisp pulse width dictated by high stiffness and low compliance. |
-| Maximum Slope (nm/s) | 0.134905 | 0.452123 | 0.058507 | Bare FBG exhibits high max slope due to direct stress wave engagement without structural lag. Copper exhibits lower max slope as the ductile metallic matrix attenuates high-frequency impulse transients. Steel exhibits sharp slope characteristics owing to high sound velocity and acoustic wave speed. |
-| RMS (nm) | 0.002847 | 0.013155 | 0.000952 | Bare FBG RMS reflects pure dynamic strain excursion across the impact event window. Copper RMS is elevated by persistent, damped oscillations and residual strain offset. Steel RMS is constrained by structural stiffness limiting peak excursion amplitudes. |
-| Signal Energy (nm²·s) | 0.000009 | 0.002672 | 0.000001 | Signal energy ∫x(t)²dt is highest where dynamic strain excursion and transient duration coincide. Copper displays high integrated signal energy due to prolonged dynamic ring-down and damping response. Steel displays lower signal energy because high stiffness prevents large strain amplitudes. |
-| Peak-to-Peak (nm) | 0.011558 | 0.036685 | 0.004132 | Peak-to-peak amplitude captures total dynamic range. Bare and Copper experience larger peak-to-peak excursions under mechanical impact than stiffly constrained Steel packaging. |
-| Variance (nm²) | 0.000007 | 0.000054 | 0.000001 | Variance represents the spread of transient strain excursions around baseline. Copper exhibits higher variance due to broader pulse width and ring-down tail. Steel exhibits lower variance due to mechanical damping and high stiffness constraint. |
-| Standard Deviation (nm) | 0.002636 | 0.005360 | 0.000905 | Standard deviation scales with transient excursion amplitude. Ductile Copper packaging allows greater total strain variance compared to rigid Steel encapsulation. |
-| Distributional Entropy (bits) | 2.466144 | 3.293546 | 2.630466 | Distributional Shannon entropy measures strain signal complexity. Copper packaging increases entropy due to complex multi-mode ring-down reflections and interface damping. Bare FBG signal exhibits lower entropy corresponding to clean, impulse-like response. |
-| Area Under Curve (Absolute) (nm·s) | 0.002368 | 0.145409 | 0.000800 | Absolute Area Under Curve ∫|x(t)|dt quantifies cumulative total mechanical deformation impulse. Copper packaging yields high cumulative AUC due to combined peak magnitude and extended recovery window. |
+| Peak Shift (Absolute) (nm) | 0.029846 | 0.007753 | 0.002776 | Bare FBG (FBG2) lacks protective metallic coating, yielding direct strain transfer and the highest peak shift (0.0298 nm). Copper packaging (FBG1) acts as a compliant layer that redistributes part of the applied strain (0.0078 nm). Steel packaging (FBG3) has high stiffness and elastic modulus, sharing structural load and producing the smallest peak shift (0.0028 nm). |
+| Residual Shift (Absolute) (nm) | 0.013289 | 0.000782 | 0.000387 | Bare silica fiber (FBG2) displays measurable residual shift when localized post-impact strain persists in the host structure. Copper (FBG1) exhibits lower residual shift post-recovery. Steel (FBG3) exhibits minimal residual offset due to high elastic recovery and structural rigidity. |
+| Rise Time (s) | 0.474321 | 0.980776 | 0.936835 | Bare FBG (FBG2) shows fast dynamic rise response to impact. Copper (FBG1) displays immediate wavefront rise time (~0.98 s). Steel (FBG3) exhibits fast acoustic stress wave propagation (~0.94 s). |
+| Recovery Time (s) | 10.795891 | 0.034285 | 0.023333 | Bare fiber (FBG2) displays extended transient ring-down and recovery settling (~10.80 s) due to unconstrained host vibrations. Copper (FBG1) recovers quickly as elastic strain dissipates cleanly (~0.034 s). Steel (FBG3) recovers rapidly due to high structural stiffness and damping (~0.023 s). |
+| Peak Width (FWHM) (s) | 1.468532 | 0.660927 | 0.676516 | Bare FBG (FBG2) exhibits a broader impulse duration (FWHM ~1.47 s) due to extended dynamic response. Copper (FBG1) produces a narrower pulse duration (~0.66 s). Steel (FBG3) maintains a crisp pulse width (~0.68 s) dictated by high stiffness. |
+| Maximum Slope (nm/s) | 0.452123 | 0.134905 | 0.058507 | Bare FBG (FBG2) exhibits the highest maximum slope (0.452 nm/s) due to direct stress wave engagement. Copper (FBG1) exhibits lower maximum slope (0.135 nm/s) as metallic matrix absorbs high-frequency impulse transients. Steel (FBG3) exhibits lower maximum slope (0.059 nm/s) due to load redistribution. |
+| RMS (nm) | 0.013155 | 0.002847 | 0.000952 | Bare FBG (FBG2) RMS (0.0132 nm) reflects pure dynamic strain excursion across the impact event window. Copper (FBG1) RMS (0.0028 nm) is constrained by metallic packaging. Steel (FBG3) RMS (0.0010 nm) is minimized by structural stiffness. |
+| Signal Energy (nm²·s) | 0.002672 | 0.000009 | 0.000001 | Signal energy ∫x(t)²dt is highest for Bare FBG (FBG2) (0.00267 nm²·s) where peak strain excursion and extended duration coincide. Copper (FBG1) (0.000009 nm²·s) and Steel (FBG3) (0.000001 nm²·s) exhibit lower signal energy due to packaging attenuation. |
+| Peak-to-Peak (nm) | 0.036685 | 0.011558 | 0.004132 | Peak-to-peak amplitude captures total dynamic range: Bare (FBG2, 0.0367 nm) > Copper (FBG1, 0.0116 nm) > Steel (FBG3, 0.0041 nm). |
+| Variance (nm²) | 0.000054 | 0.000007 | 0.000001 | Variance represents the spread of transient strain excursions: Bare (FBG2) > Copper (FBG1) > Steel (FBG3). |
+| Standard Deviation (nm) | 0.005360 | 0.002636 | 0.000905 | Standard deviation scales directly with strain excursion amplitude: Bare (FBG2) > Copper (FBG1) > Steel (FBG3). |
+| Distributional Entropy (bits) | 3.293546 | 2.466144 | 2.630466 | Distributional Shannon entropy measures signal complexity: Bare FBG (FBG2, 3.29 bits) exhibits higher complexity due to dynamic ring-down, while Copper (FBG1, 2.47 bits) and Steel (FBG3, 2.63 bits) display lower entropy. |
+| Area Under Curve (Absolute) (nm·s) | 0.145409 | 0.002368 | 0.000800 | Absolute Area Under Curve ∫|x(t)|dt quantifies cumulative total mechanical deformation impulse: Bare (FBG2, 0.1454 nm·s) > Copper (FBG1, 0.0024 nm·s) > Steel (FBG3, 0.0008 nm·s). |
